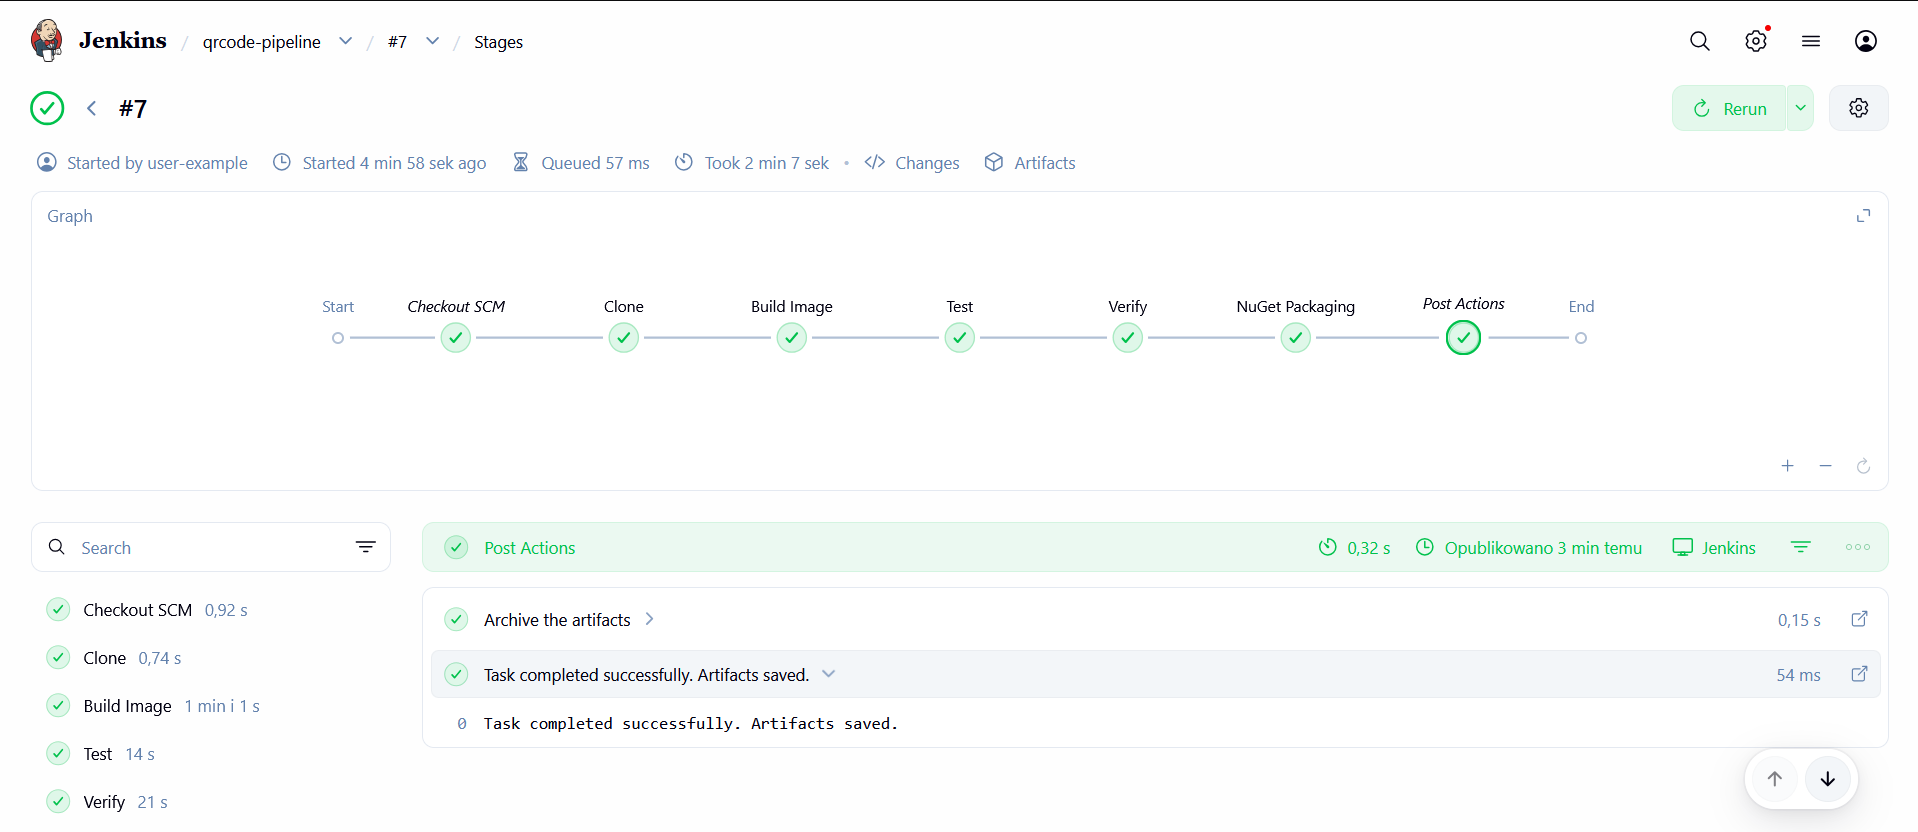
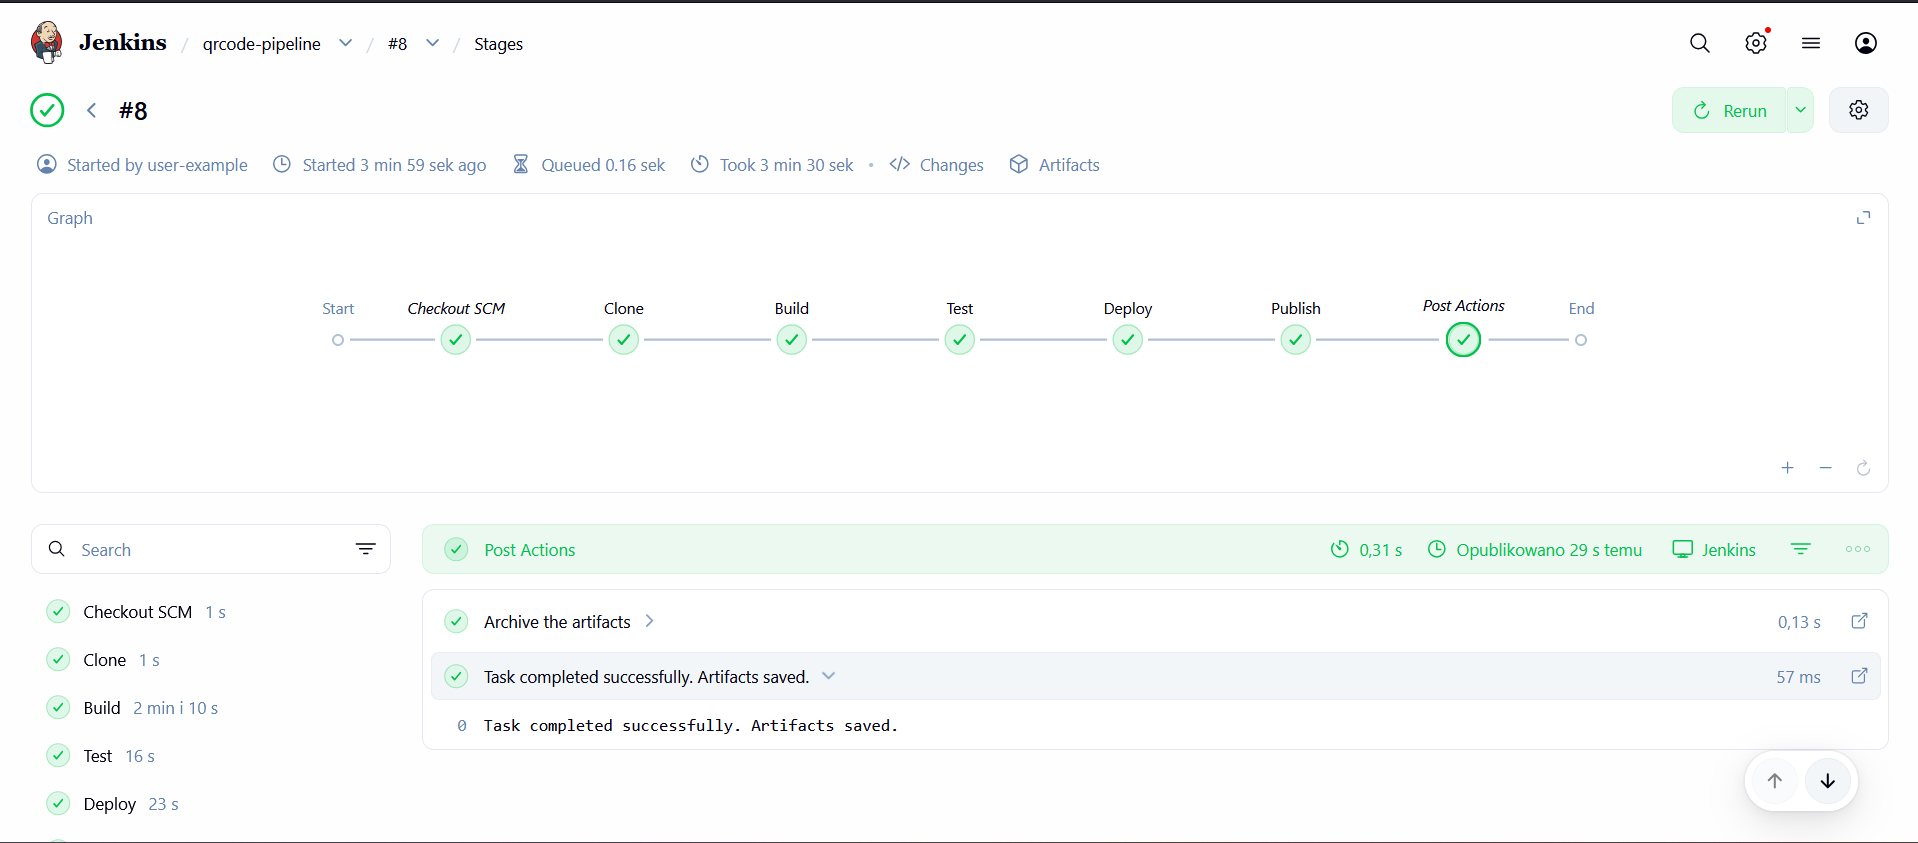
MŁ420124 Class06-07 pipeline finished

diff --git a/ITE/GCL3/MŁ420124/Sprawozdanie2/Readme.md b/ITE/GCL3/MŁ420124/Sprawozdanie2/Readme.md
@@ -163,11 +163,12 @@ pipeline {
     stages {
         stage('Clone') {
             steps {
+                cleanWs()
                 checkout scm
             }
         }
         
-        stage('Build Image') {
+        stage('Build') {
             steps {
                 sh 'docker build -t qrcodebld -f Dockerfile.qrcode.bld .'
             }
@@ -180,7 +181,7 @@ pipeline {
             }
         }
 
-        stage('Verify') {
+        stage('Deploy') {
             steps {
                 script {
                     sh '''
@@ -212,7 +213,7 @@ EOF
             }
         }
 
-        stage('NuGet Packaging') {
+        stage('Publish') {
             steps {
                 sh '''
                 docker run --rm -v $(pwd):/app -w /app qrcodebld bash -c "
